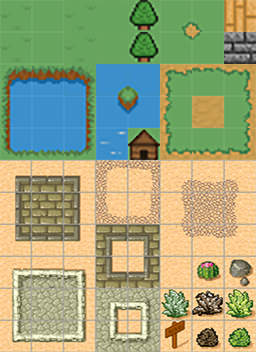
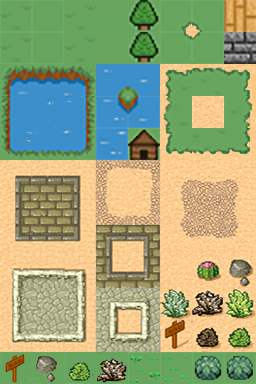
Add: Guide in titleScreen 0. Change: All.png.

diff --git a/src/image/Tileset/A.tsx b/src/image/Tileset/A.tsx
@@ -1,4 +1,4 @@
 <?xml version="1.0" encoding="UTF-8"?>
-<tileset version="1.10" tiledversion="1.10.2" name="A" tilewidth="32" tileheight="32" tilecount="88" columns="8">
- <image source="../../../../../Pixel_art/All.png" width="256" height="352"/>
+<tileset version="1.10" tiledversion="1.10.2" name="All" tilewidth="32" tileheight="32" tilecount="96" columns="8">
+ <image source="../../../res/tiles/All.png" width="256" height="384"/>
 </tileset>

diff --git a/src/view/UI.java b/src/view/UI.java
@@ -41,6 +41,7 @@ public class UI {
 
     public int titleScreenState = 0;
     public int subState = 0;
+    public int guideState = 0;
 
 
     public UI (GamePanel gp) {
@@ -105,9 +106,13 @@ public class UI {
         if (gp.gameState == gp.gameOverState) {
             drawGameOverScreen();
         }
-
+        //Win map screen
         if (gp.gameState == gp.winState) {
             drawWinScreen();
+        }
+        //GuideScreen
+        if (gp.gameState == gp.guideState) {
+            drawGuideScreen();
         }
     }
 
@@ -271,13 +276,21 @@ public class UI {
                 drawColection(text, x, y);
             }
 
+            text = "Guide";
+            x = getXforCenterText(text) + gp.titleSize*4;
+            y += gp.titleSize + 10;
+            g2.drawString(text, x, y);
+            if (commanNum == 3) {
+                drawColection(text, x, y);
+            }
+
             text = "Quit";
             x = getXforCenterText(text) + gp.titleSize*4;
             y += gp.titleSize + 10;
             width = text.length()*13;
             height = 3;
             g2.drawString(text, x, y);
-            if (commanNum == 3) {
+            if (commanNum == 4) {
                 drawColection(text, x, y);
             }
 
@@ -668,7 +681,7 @@ public class UI {
         int textX = frameX + gp.titleSize + 40;
         int textY = frameY = gp.titleSize*6;
 
-        currentDialogue = "Quit the game and \nreturn to the title screen";
+        currentDialogue = "Save the game and \nreturn to the title screen";
 
         g2.setFont(g2.getFont().deriveFont(Font.ITALIC));
         for (String line: currentDialogue.split("\n")) {
@@ -822,6 +835,82 @@ public class UI {
         textX = getXforCenterText(text) + 20;
         textY += gp.titleSize;
         g2.drawString(text, textX, textY);
+    }
+
+    public void drawGuideScreen() {
+
+        try {
+            backgorundImage = ImageIO.read(getClass().getResourceAsStream("/Background.png"));
+        } catch (IOException e) {
+            e.printStackTrace();
+        }
+
+        //Background
+        g2.drawImage(backgorundImage, 0, 0, gp.screenWidth, gp.screenHeight, null);
+
+        g2.setColor(Color.white);
+        g2.setFont(g2.getFont().deriveFont(32F));
+
+        int frameX = gp.titleSize*6;
+        int frameY = gp.titleSize*3;
+        int frameWidth = gp.titleSize*8;
+        int frameHeight = gp.titleSize*12;
+        drawSubWindown(frameX, frameY, frameWidth, frameHeight);
+
+        switch (guideState) {
+            case 0:
+                guide_top(frameX, frameY);
+                break;
+            default:
+                break;
+        }
+
+    }
+
+    public void guide_top(int frameX, int frameY) {
+
+        g2.setFont(g2.getFont().deriveFont(Font.ITALIC));
+
+        int textX;
+        int textY;
+
+        //TITLE
+        String text = "Guide";
+        textX = getXforCenterText(text);
+        textY = frameY + gp.titleSize;
+        g2.drawString(text, textX,textY);
+
+        //Menu control
+        textX = frameX + gp.titleSize;
+        textY += gp.titleSize*3/2;
+
+        g2.drawString("Move", textX, textY); textY += gp.titleSize*3/2;
+        textX += gp.titleSize;
+        g2.drawString("Up", textX, textY); textY += gp.titleSize*3/2;
+        g2.drawString("Left", textX, textY); textY += gp.titleSize*3/2;
+        g2.drawString("Down", textX, textY); textY += gp.titleSize*3/2;
+        g2.drawString("Right", textX, textY); textY += gp.titleSize*3/2;
+        textX -= gp.titleSize;
+        g2.drawString("Felling Tree", textX, textY); textX += gp.titleSize*3/2;
+
+        //Control
+        textX = frameX + gp.titleSize*6;
+        textY = frameY + gp.titleSize*4;
+
+        g2.drawString("W", textX, textY); textY += gp.titleSize*3/2;
+        g2.drawString("A", textX, textY); textY += gp.titleSize*3/2;
+        g2.drawString("S", textX, textY); textY += gp.titleSize*3/2;
+        g2.drawString("D", textX, textY); textY += gp.titleSize*3/2;
+        g2.drawString("C", textX, textY); textX += gp.titleSize*3/2;
+
+        //Back
+        textX = frameX + gp.titleSize;
+        textY = frameY + gp.titleSize*23/2;
+        g2.drawString("Back", textX, textY);
+        if (commanNum == 0) {
+            drawColection("Back", textX, textY);
+        }
+
     }
 
     //Auxiliary Method

diff --git a/src/controller/KeyHandler.java b/src/controller/KeyHandler.java
@@ -42,6 +42,9 @@ public class KeyHandler implements KeyListener
             case 4:
                 winState(code);
                 break;
+            case 5:
+                guideState(code);
+                break;
         }
 
     }
@@ -117,13 +120,13 @@ public class KeyHandler implements KeyListener
                 gp.ui.commanNum--;
                 gp.playSE(5);
                 if (gp.ui.commanNum < 0) {
-                    gp.ui.commanNum = 3;
+                    gp.ui.commanNum = 4;
                 }
             }
             if (code == KeyEvent.VK_S) {
                 gp.ui.commanNum++;
                 gp.playSE(5);
-                if (gp.ui.commanNum > 3) {
+                if (gp.ui.commanNum > 4) {
                     gp.ui.commanNum = 0;
                 }
             }
@@ -171,8 +174,13 @@ public class KeyHandler implements KeyListener
                         gp.ui.titleScreenState = 1;
                         gp.ui.commanNum = 0;
                         break;
-                    //Quit
+                    //Guide
                     case 3:
+                        gp.gameState = gp.guideState;
+                        gp.ui.commanNum = 0;
+                        break;
+                    //Quit
+                    case 4:
                         System.exit(0);
                         break;
                 }
@@ -320,7 +328,8 @@ public class KeyHandler implements KeyListener
                         break;
                 }
             }
-        } else if (gp.ui.titleScreenState == 3) {
+        }
+        else if (gp.ui.titleScreenState == 3) {
 
             if (code == KeyEvent.VK_W) {
                 gp.ui.commanNum--;
@@ -390,7 +399,8 @@ public class KeyHandler implements KeyListener
                         break;
                 }
             }
-        } else if (gp.ui.titleScreenState == 4) {
+        }
+        else if (gp.ui.titleScreenState == 4) {
 
             if (code == KeyEvent.VK_ENTER) {
                 //Back
@@ -618,6 +628,39 @@ public class KeyHandler implements KeyListener
                     gp.ui.commanNum = 0;
                     break;
             }
+        }
+    }
+
+    private void guideState(int code) {
+        if (code == KeyEvent.VK_W) {
+            gp.ui.commanNum--;
+            gp.playSE(5);
+            if (gp.ui.guideState == 0) {
+                if (gp.ui.commanNum != 0) {
+                    gp.ui.commanNum = 0;
+                }
+            }
+        }
+        if (code == KeyEvent.VK_S) {
+            gp.ui.commanNum++;
+            gp.playSE(5);
+            if (gp.ui.guideState == 0) {
+                if (gp.ui.commanNum != 0) {
+                    gp.ui.commanNum = 0;
+                }
+            }
+        }
+        if (code == KeyEvent.VK_ENTER) {
+            if (gp.ui.guideState == 0) {
+                switch (gp.ui.commanNum) {
+                    //Back
+                    case 0:
+                        gp.gameState = gp.titleState;
+                        gp.ui.commanNum = 0;
+                        break;
+                }
+            }
+            gp.playSE(5);
         }
     }
 }

diff --git a/src/controller/tool/ImageLoader.java b/src/controller/tool/ImageLoader.java
@@ -18,7 +18,7 @@ public class ImageLoader {
     int imageWidth;
     int imageHeight;
 
-    int[] collisionTile = {5, 8, 13, 16, 17, 18, 19, 20, 21, 25, 26, 27, 28, 29, 33, 34, 35, 36, 37, 41, 42, 43, 49, 51, 57, 58, 59, 60, 61, 65, 66, 67, 68, 70, 71, 72, 73, 75, 76, 77, 78, 79, 80, 81, 82, 83, 84, 85, 86, 87, 88};
+    int[] collisionTile = {5, 8, 13, 16, 17, 18, 19, 20, 21, 25, 26, 27, 28, 29, 33, 34, 35, 36, 37, 41, 42, 43, 49, 51, 57, 58, 59, 60, 61, 65, 66, 67, 68, 70, 71, 72, 73, 75, 76, 77, 78, 79, 80, 81, 82, 83, 84, 85, 86, 87, 88, 89, 90, 91, 92, 95, 96};
 
     public ImageLoader(GamePanel gp, String imagePath, int numImages, int imageWidth, int imageHeight) {
         this.gp = gp;

diff --git a/src/data/SaveLoad.java b/src/data/SaveLoad.java
@@ -108,7 +108,7 @@ public class SaveLoad {
             ObjectInputStream ois = new ObjectInputStream(new FileInputStream(new File("save.dat")));
 
             // Read the DataStorage object
-            DataStorage dataStorage = (DataStorage) ois.readObject();
+            DataStorage dataStorage = (DataStorage)ois.readObject();
 
             // Player
             gp.player.worldX = dataStorage.worldX;

diff --git a/src/view/GamePanel.java b/src/view/GamePanel.java
@@ -72,6 +72,7 @@ public class GamePanel extends JPanel implements Runnable {
     public final int optionState = 2;
     public final int gameOverState = 3;
     public final int winState = 4;
+    public final int guideState = 5;
 
     //Mode
     public int gameMode;

diff --git a/src/model/tile/TileManager.java b/src/model/tile/TileManager.java
@@ -25,7 +25,7 @@ public class TileManager {
 
     ImageLoader imageLoader;
 
-    public final int numImage = 88;
+    public final int numImage = 96;
     public final int imageWidth = 32;
     public final int imageHeight = 32;
 
